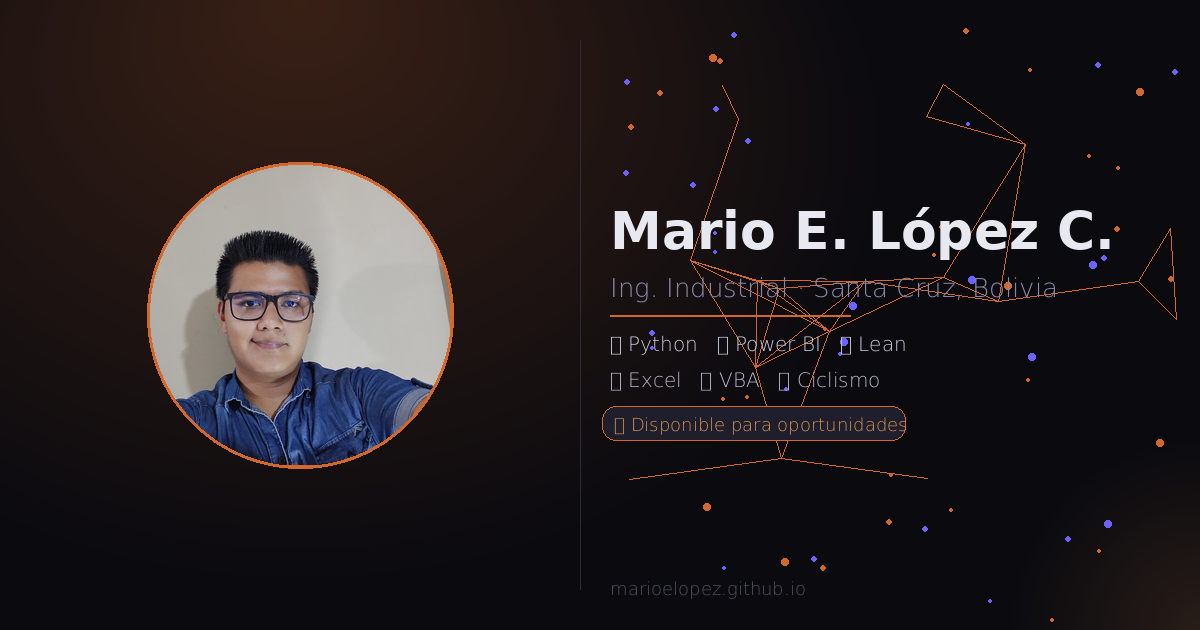
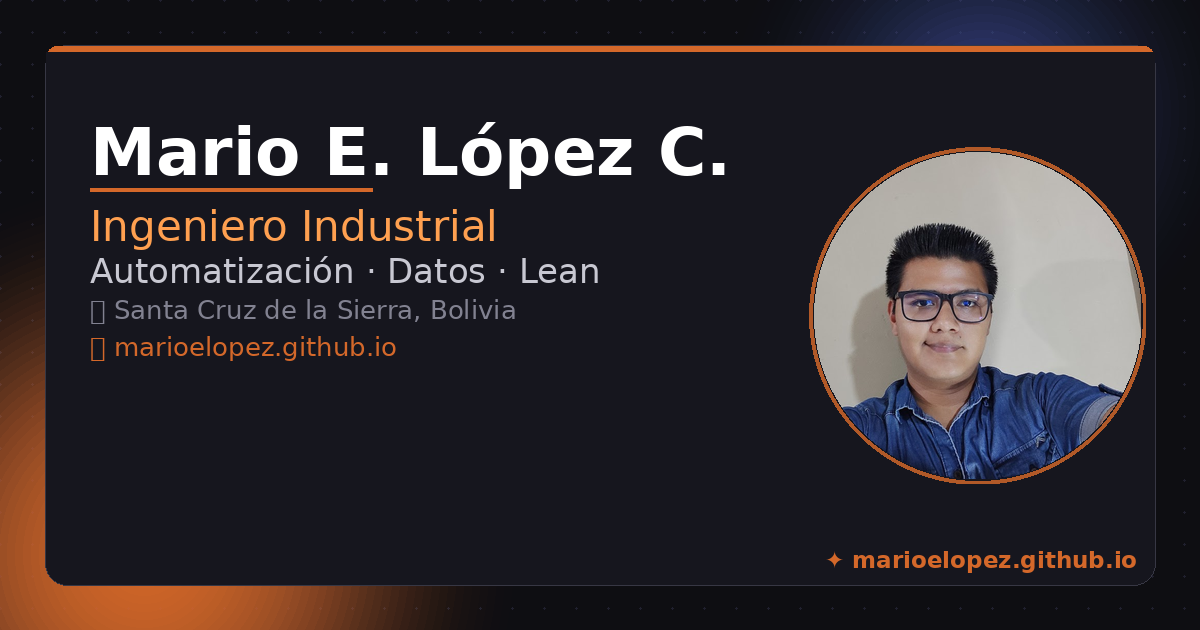
fix: Pyodide CSP, mobile blur, terminal keyboard, visited overlay, OG images redesign

diff --git a/generate_og.py b/generate_og.py
@@ -1,0 +1,260 @@
+#!/usr/bin/env python3
+"""
+generate_og.py — Genera imágenes Open Graph para marioelopez.github.io
+Formatos: 1200x630 (estándar), 1200x1200 (cuadrado WhatsApp/Instagram)
+
+Uso:
+    python generate_og.py
+
+Requiere:
+    pip install Pillow
+"""
+
+from PIL import Image, ImageDraw, ImageFont, ImageFilter, ImageOps
+import os, math, textwrap
+
+# ── Rutas ──────────────────────────────────────────────────────────────────────
+SCRIPT_DIR   = os.path.dirname(os.path.abspath(__file__))
+FOTO_PATH    = os.path.join(SCRIPT_DIR, "FOTO_PERFIL.jpg")
+OUT_STANDARD = os.path.join(SCRIPT_DIR, "og-image.png")
+OUT_SQUARE   = os.path.join(SCRIPT_DIR, "og-image-square.png")
+
+# ── Paleta ─────────────────────────────────────────────────────────────────────
+BG_DARK    = (14, 14, 18)        # fondo principal
+BG_CARD    = (22, 22, 30)        # tarjeta interna
+ACCENT     = (212, 104, 42)      # naranja (#d4682a)
+ACCENT2    = (255, 160, 80)      # naranja claro
+WHITE      = (255, 255, 255)
+GRAY_L     = (200, 200, 210)
+GRAY_M     = (130, 130, 145)
+GRAY_D     = (55, 55, 68)
+
+# ── Textos ─────────────────────────────────────────────────────────────────────
+INFO = {
+    "name"     : "Mario E. López C.",
+    "title"    : "Ingeniero Industrial",
+    "subtitle" : "Automatización · Datos · Lean",
+    "location" : "Santa Cruz de la Sierra, Bolivia",
+    "url"      : "marioelopez.github.io",
+    "initials" : "ML",
+}
+
+
+# ══════════════════════════════════════════════════════════════════════════════
+#  Utilidades
+# ══════════════════════════════════════════════════════════════════════════════
+
+def load_font(size, bold=False):
+    """Carga DejaVu Sans (incluida en Pillow) o fallback a default."""
+    candidates = []
+    if bold:
+        candidates = [
+            "/usr/share/fonts/truetype/dejavu/DejaVuSans-Bold.ttf",
+            "/usr/share/fonts/truetype/liberation/LiberationSans-Bold.ttf",
+            "C:/Windows/Fonts/arialbd.ttf",
+            "C:/Windows/Fonts/calibrib.ttf",
+        ]
+    else:
+        candidates = [
+            "/usr/share/fonts/truetype/dejavu/DejaVuSans.ttf",
+            "/usr/share/fonts/truetype/liberation/LiberationSans-Regular.ttf",
+            "C:/Windows/Fonts/arial.ttf",
+            "C:/Windows/Fonts/calibri.ttf",
+        ]
+    for path in candidates:
+        if os.path.exists(path):
+            return ImageFont.truetype(path, size)
+    return ImageFont.load_default()
+
+
+def circle_photo(path, size):
+    """Recorta foto circular con borde de acento."""
+    try:
+        img = Image.open(path).convert("RGBA")
+    except Exception:
+        return None
+    # Recorte cuadrado centrado
+    w, h = img.size
+    m = min(w, h)
+    left = (w - m) // 2
+    top  = (h - m) // 2
+    img  = img.crop((left, top, left + m, top + m))
+    img  = img.resize((size, size), Image.LANCZOS)
+
+    # Máscara circular
+    mask = Image.new("L", (size, size), 0)
+    ImageDraw.Draw(mask).ellipse((0, 0, size, size), fill=255)
+    result = Image.new("RGBA", (size, size), (0, 0, 0, 0))
+    result.paste(img, mask=mask)
+    return result
+
+
+def draw_rounded_rect(draw, xy, radius, fill=None, outline=None, width=1):
+    x0, y0, x1, y1 = xy
+    draw.rounded_rectangle([x0, y0, x1, y1], radius=radius, fill=fill, outline=outline, width=width)
+
+
+def draw_dot_grid(draw, x0, y0, x1, y1, step=28, color=(40, 40, 55)):
+    for gx in range(x0, x1, step):
+        for gy in range(y0, y1, step):
+            draw.ellipse((gx-1, gy-1, gx+1, gy+1), fill=color)
+
+
+def glow_circle(canvas, cx, cy, radius, color, alpha_max=60):
+    """Dibuja un círculo difuminado (glow) sobre canvas RGBA."""
+    for r in range(radius, 0, -8):
+        a = int(alpha_max * (1 - r / radius) ** 1.5)
+        overlay = Image.new("RGBA", canvas.size, (0, 0, 0, 0))
+        d = ImageDraw.Draw(overlay)
+        d.ellipse((cx-r, cy-r, cx+r, cy+r), fill=(*color, a))
+        canvas = Image.alpha_composite(canvas, overlay)
+    return canvas
+
+
+def text_bbox(draw, text, font):
+    """Compatible Pillow ≥9 y <9."""
+    try:
+        bb = draw.textbbox((0, 0), text, font=font)
+        return bb[2] - bb[0], bb[3] - bb[1]
+    except AttributeError:
+        return draw.textsize(text, font=font)
+
+
+# ══════════════════════════════════════════════════════════════════════════════
+#  Generador principal
+# ══════════════════════════════════════════════════════════════════════════════
+
+def make_image(width, height, out_path):
+    canvas = Image.new("RGBA", (width, height), (*BG_DARK, 255))
+
+    # ── Fondo: rejilla de puntos ───────────────────────────────────────────────
+    draw = ImageDraw.Draw(canvas)
+    draw_dot_grid(draw, 0, 0, width, height, step=32, color=(32, 32, 46))
+
+    # ── Glows de fondo ────────────────────────────────────────────────────────
+    canvas = glow_circle(canvas, int(width * 0.12), int(height * 0.88),
+                         int(min(width, height) * 0.65), ACCENT, alpha_max=45)
+    canvas = glow_circle(canvas, int(width * 0.82), int(height * 0.18),
+                         int(min(width, height) * 0.45), (60, 80, 160), alpha_max=30)
+
+    draw = ImageDraw.Draw(canvas)
+
+    # ── Tarjeta interior ──────────────────────────────────────────────────────
+    PAD = int(width * 0.038)
+    card = (PAD, PAD, width - PAD, height - PAD)
+    draw_rounded_rect(draw, card, radius=22,
+                      fill=(*BG_CARD, 210), outline=(*GRAY_D, 180), width=1)
+
+    # ── Barra superior de acento ──────────────────────────────────────────────
+    bar_h = max(5, int(height * 0.008))
+    draw.rounded_rectangle([card[0]+1, card[1]+1, card[2]-1, card[1]+bar_h+18],
+                            radius=22, fill=(*ACCENT, 220))
+    # suavizar la parte de abajo de la barra
+    draw.rectangle([card[0]+1, card[1]+bar_h+2, card[2]-1, card[1]+bar_h+18],
+                   fill=(*BG_CARD, 210))
+
+    # ── Foto de perfil (derecha) ───────────────────────────────────────────────
+    is_square = (width == height)
+    if is_square:
+        photo_size = int(height * 0.30)
+        photo_cx   = width // 2
+        photo_cy   = int(height * 0.30)
+    else:
+        photo_size = int(height * 0.52)
+        photo_cx   = int(width * 0.815)
+        photo_cy   = height // 2
+
+    photo = circle_photo(FOTO_PATH, photo_size)
+
+    # Anillo de acento detrás de la foto
+    ring = photo_size + 10
+    ring_img = Image.new("RGBA", (ring, ring), (0, 0, 0, 0))
+    ImageDraw.Draw(ring_img).ellipse((0, 0, ring, ring), outline=(*ACCENT, 200), width=4)
+    canvas.alpha_composite(ring_img,
+                           (photo_cx - ring//2, photo_cy - ring//2))
+
+    if photo:
+        canvas.alpha_composite(photo,
+                               (photo_cx - photo_size//2, photo_cy - photo_size//2))
+    else:
+        # Iniciales como fallback
+        fallback = Image.new("RGBA", (photo_size, photo_size), (0, 0, 0, 0))
+        fd = ImageDraw.Draw(fallback)
+        fd.ellipse((0, 0, photo_size, photo_size), fill=(*ACCENT, 230))
+        fi = load_font(int(photo_size * 0.36), bold=True)
+        tw, th = text_bbox(fd, INFO["initials"], fi)
+        fd.text(((photo_size-tw)//2, (photo_size-th)//2),
+                INFO["initials"], font=fi, fill=WHITE)
+        canvas.alpha_composite(fallback, (photo_cx - photo_size//2, photo_cy - photo_size//2))
+
+    draw = ImageDraw.Draw(canvas)
+
+    # ── Columna de texto ──────────────────────────────────────────────────────
+    if is_square:
+        tx = int(width * 0.08)
+        ty = int(height * 0.50)
+        max_text_w = int(width * 0.84)
+    else:
+        tx = int(width * 0.075)
+        ty = int(height * 0.18)
+        max_text_w = int(width * 0.56)
+
+    # Fuentes base
+    fn_med  = load_font(int(height * (0.062 if is_square else 0.068)), bold=False)
+    fn_sm   = load_font(int(height * (0.050 if is_square else 0.055)), bold=False)
+    fn_xs   = load_font(int(height * 0.042), bold=False)
+
+    # Nombre — ajusta tamaño automáticamente para no salirse del ancho
+    name_size_start = int(height * (0.115 if is_square else 0.125))
+    fn_big = load_font(name_size_start, bold=True)
+    while text_bbox(draw, INFO["name"], fn_big)[0] > max_text_w and name_size_start > 40:
+        name_size_start -= 4
+        fn_big = load_font(name_size_start, bold=True)
+
+    # Dibuja nombre
+    draw.text((tx, ty), INFO["name"], font=fn_big, fill=WHITE)
+    ty += int(text_bbox(draw, INFO["name"], fn_big)[1] * 1.12)
+
+    # Línea separadora
+    draw.rectangle([tx, ty, tx + int(max_text_w * 0.42), ty + 3],
+                   fill=(*ACCENT, 220))
+    ty += 14
+
+    # Título
+    draw.text((tx, ty), INFO["title"], font=fn_med, fill=(*ACCENT2, 255))
+    ty += int(text_bbox(draw, INFO["title"], fn_med)[1] * 1.2)
+
+    # Subtítulo
+    draw.text((tx, ty), INFO["subtitle"], font=fn_sm, fill=(*GRAY_L, 220))
+    ty += int(text_bbox(draw, INFO["subtitle"], fn_sm)[1] * 1.6)
+
+    # Ubicación con ícono
+    loc_text = "📍 " + INFO["location"]
+    draw.text((tx, ty), loc_text, font=fn_xs, fill=(*GRAY_M, 230))
+    ty += int(text_bbox(draw, loc_text, fn_xs)[1] * 1.5)
+
+    # URL con acento
+    draw.text((tx, ty), "🔗 " + INFO["url"], font=fn_xs, fill=(*ACCENT, 240))
+
+    # ── Logo / marca en esquina inferior ─────────────────────────────────────
+    fn_logo = load_font(int(height * 0.038), bold=True)
+    logo_txt = "✦ marioelopez.github.io"
+    lw, lh = text_bbox(draw, logo_txt, fn_logo)
+    draw.text((card[2] - lw - 18, card[3] - lh - 16),
+              logo_txt, font=fn_logo, fill=(*ACCENT, 160))
+
+    # ── Guardar ───────────────────────────────────────────────────────────────
+    final = canvas.convert("RGB")
+    final.save(out_path, "PNG", optimize=True)
+    print(f"✅ Guardado: {out_path}  ({width}×{height})")
+
+
+# ══════════════════════════════════════════════════════════════════════════════
+#  Entrada
+# ══════════════════════════════════════════════════════════════════════════════
+
+if __name__ == "__main__":
+    print("🎨 Generando imágenes OG…\n")
+    make_image(1200, 630,  OUT_STANDARD)   # OG estándar / WhatsApp / Twitter
+    make_image(1200, 1200, OUT_SQUARE)     # Instagram / WhatsApp cuadrado
+    print("\n✨ Listo. Archivos generados en:", SCRIPT_DIR)
